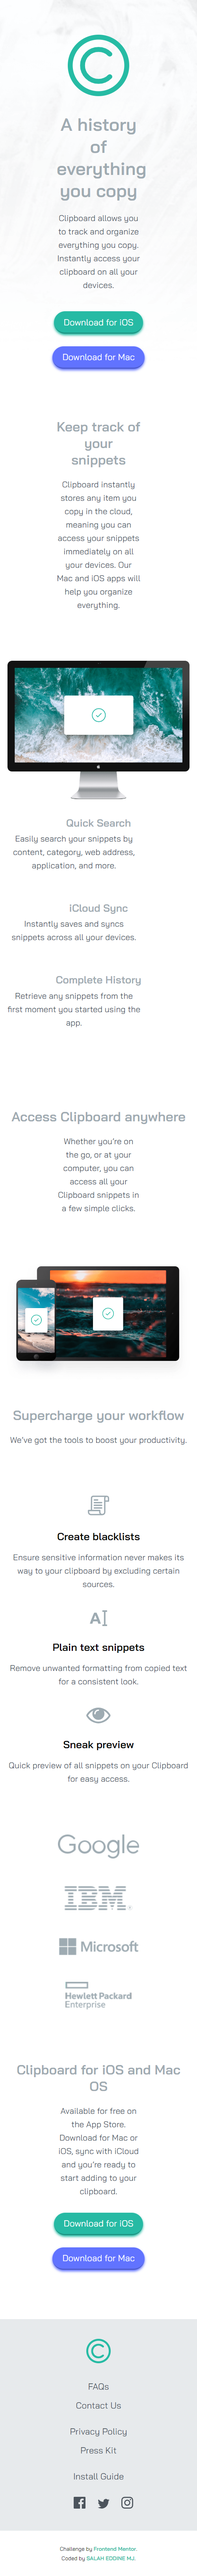
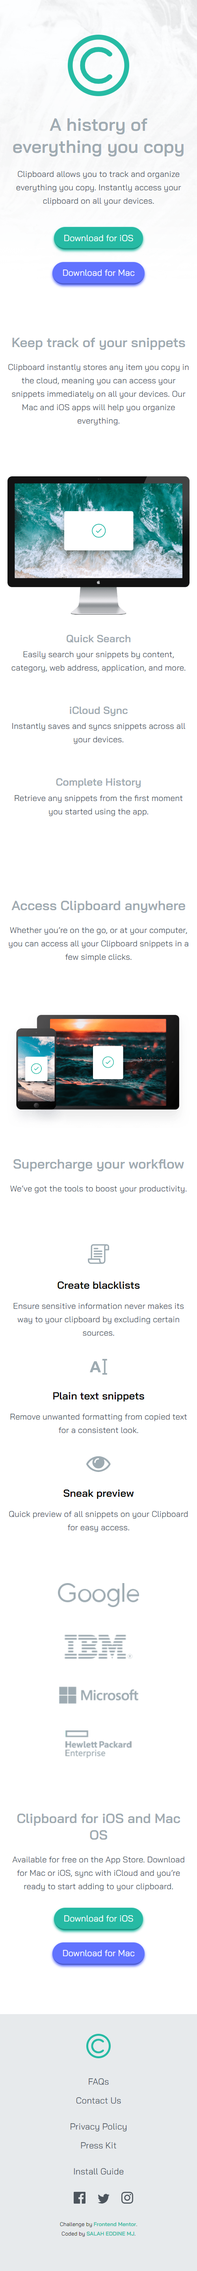
Upload The Updates

diff --git a/index.html b/index.html
@@ -197,16 +197,14 @@
         <img src="images/icon-instagram.svg" alt="">
       </div>
     </div>
+      <div class="attribution">
+        <div>
+          Challenge by <a href="https://www.frontendmentor.io?ref=challenge" target="_blank">Frontend Mentor</a>. 
+        </div>
+        <div>
+          Coded by <a href="#">SALAH EDDINE MJ</a>.
+        </div>
+      </div>
   </footer>
-  <div>
-    <div class="attribution">
-      <div>
-        Challenge by <a href="https://www.frontendmentor.io?ref=challenge" target="_blank">Frontend Mentor</a>. 
-      </div>
-      <div>
-        Coded by <a href="#">SALAH EDDINE MJ</a>.
-      </div>
-    </div>
-  </div>
 </body>
 </html>

diff --git a/README-template.md b/README-template.md
@@ -22,8 +22,8 @@ This is a solution to the [Clipboard landing page challenge on Frontend Mentor](
 
 ### Links
 
-- Solution URL: [Add solution URL here](https://your-solution-url.com)
-- Live Site URL: [Add live site URL here](https://your-live-site-url.com)
+- Solution URL: (https://github.com/SalahEddineMj/Frontend-Mentor-Clipboard-landing-page)
+- Live Site URL: (https://salaheddinemj.github.io/Frontend-Mentor-Clipboard-landing-page/)
 
 ## My process
 
